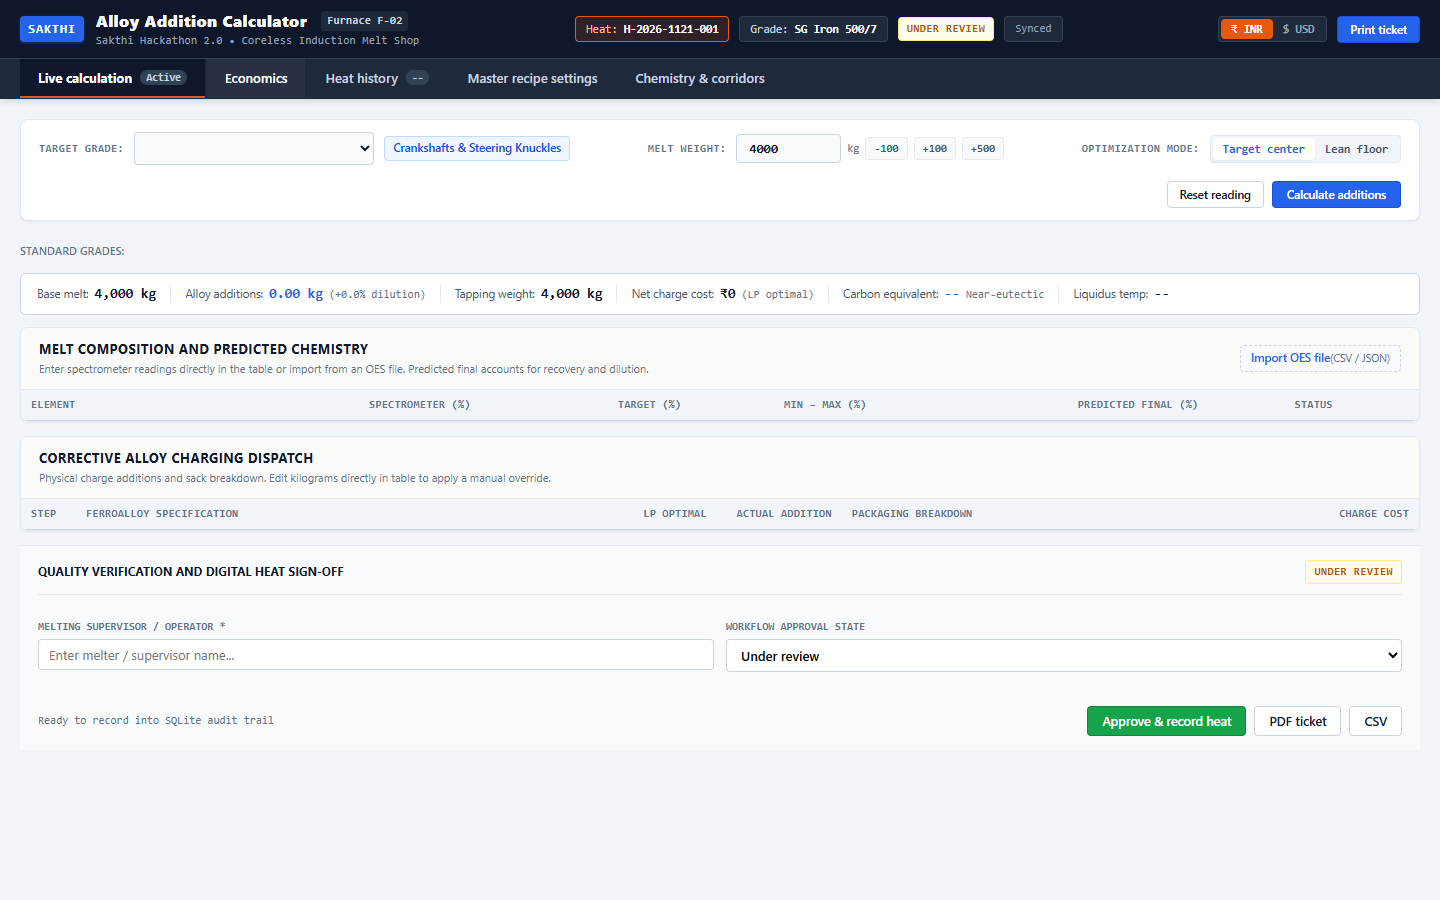
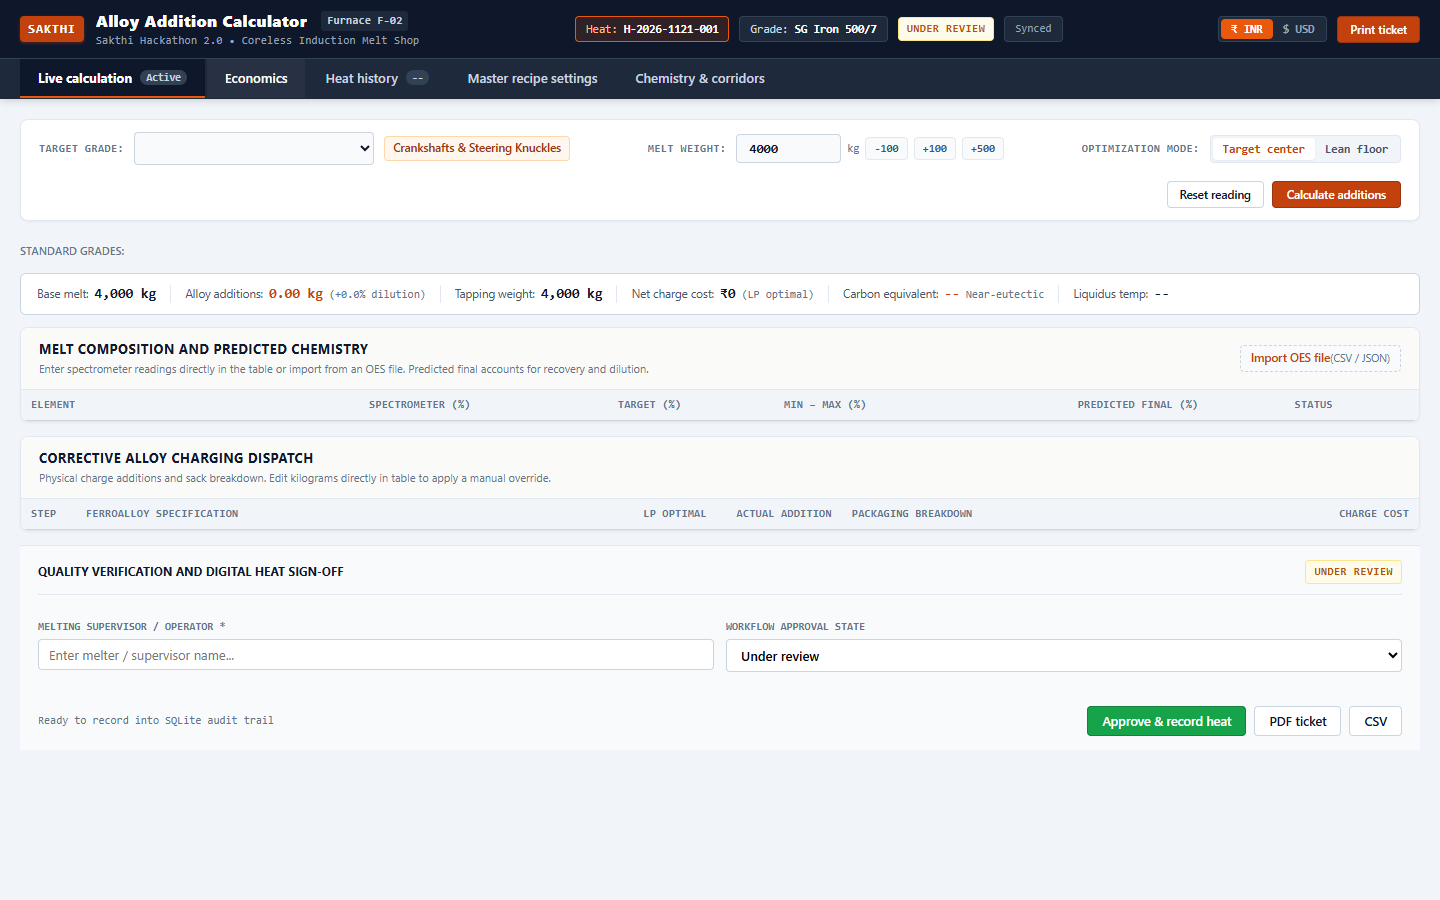
Replace blue theme with industrial foundry rust and slate palette

diff --git a/static/app.js b/static/app.js
@@ -328,7 +328,7 @@ function renderSpectroTable() {
       <td style="text-align:right;">
         <input type="number" step="${spec.step || 0.01}" value="${currentVal}" class="tabular-input" data-el="${el}">
       </td>
-      <td style="text-align:right; font-family:var(--font-mono); color:#2563eb; font-weight:600;">${spec.target.toFixed(3)}%</td>
+      <td style="text-align:right; font-family:var(--font-mono); color:var(--text-main); font-weight:600;">${spec.target.toFixed(3)}%</td>
       <td style="text-align:center; font-family:var(--font-mono); color:var(--text-muted); font-size:11px;">${minMaxStr}</td>
       <td style="text-align:right; font-family:var(--font-mono); font-weight:700; color:${isFinalInSpec ? 'var(--signal-green)' : 'var(--signal-red)'};">
         ${finalVal.toFixed(3)}%
@@ -406,8 +406,8 @@ function setupDropzone() {
     try {
       if (statusMsg) {
         statusMsg.style.display = "block";
-        statusMsg.style.background = "#eff6ff";
-        statusMsg.style.color = "#1d4ed8";
+        statusMsg.style.background = "#fff7ed";
+        statusMsg.style.color = "#9a3412";
         statusMsg.textContent = `Parsing ${file.name}...`;
       }
 
@@ -654,7 +654,7 @@ function renderChargingTable(res) {
         <input type="number" step="0.5" min="0" value="${overrideVal}" class="tabular-input ${isOverridden ? 'overridden' : ''}" data-alloy="${r.alloy_id}" style="width:85px; font-weight:700;">
       </td>
       <td style="font-family:var(--font-mono); font-size:11.5px; color:var(--text-muted);">${packagingStr}</td>
-      <td style="text-align:right; font-family:var(--font-mono); font-weight:700; color:#2563eb;">${costDisplay}</td>
+      <td style="text-align:right; font-family:var(--font-mono); font-weight:700; color:var(--text-main);">${costDisplay}</td>
     `;
     const isModified = Math.abs(overrideVal - r.quantity_kg) > 0.01;
     const cost = appState.currency === "INR" ? (r.total_cost_inr || r.total_cost * appState.fxRate) : r.total_cost;
@@ -932,7 +932,7 @@ function renderCorridorAnalysis(res) {
             <span style="color:var(--text-faint); font-size:10.5px; margin-left:6px;">[Min: ${spec.min}% | Max: ${spec.max}%]</span>
           </div>
           <div>
-            <span style="color:#0284c7;">${c0.toFixed(3)}%</span> &rarr;
+            <span style="color:#64748b;">${c0.toFixed(3)}%</span> &rarr;
             <strong style="color:${hasViolation ? '#dc2626' : '#15803d'};">${cFin.toFixed(3)}%</strong>
           </div>
         </div>

diff --git a/static/styles.css b/static/styles.css
@@ -95,7 +95,7 @@
 }
 .form-input:focus {
   outline: none;
-  border-color: #2563eb;
+  border-color: var(--primary-orange);
 }
 .validation-error {
   color: var(--signal-red);
@@ -105,7 +105,7 @@
 }
 
 :root {
-  /* Industrial Palette: Steel Slate, Precision Blue & Signal Tones */
+  /* Industrial Palette: Foundry Charcoal, Molten Rust & Signal Tones */
   --header-bg: #0f172a;
   --header-border: #1e293b;
   --header-text: #f8fafc;
@@ -120,10 +120,10 @@
   --border-medium: #cbd5e1;
   --border-dark: #94a3b8;
 
-  --primary-orange: #2563eb;
-  --primary-orange-hover: #1d4ed8;
-  --primary-orange-subtle: #eff6ff;
-  --primary-orange-border: #bfdbfe;
+  --primary-orange: #c2410c;
+  --primary-orange-hover: #9a3412;
+  --primary-orange-subtle: #fff7ed;
+  --primary-orange-border: #fed7aa;
 
   --signal-green: #15803d;
   --signal-green-bg: #f0fdf4;
@@ -137,9 +137,9 @@
   --signal-amber-bg: #fffbeb;
   --signal-amber-border: #fde68a;
 
-  --signal-blue: #2563eb;
-  --signal-blue-bg: #eff6ff;
-  --signal-blue-border: #bfdbfe;
+  --signal-accent: #c2410c;
+  --signal-accent-bg: #fff7ed;
+  --signal-accent-border: #fed7aa;
 
   --text-main: #0f172a;
   --text-muted: #475569;
@@ -234,7 +234,7 @@ body {
 }
 
 .brand-badge {
-  background: #2563eb;
+  background: var(--primary-orange);
   color: #ffffff;
   padding: 4px 8px;
   border-radius: var(--radius-xs);
@@ -242,7 +242,7 @@ body {
   font-size: 13px;
   letter-spacing: 0.8px;
   font-family: var(--font-mono);
-  box-shadow: 0 1px 3px rgba(37, 99, 235, 0.4);
+  box-shadow: 0 1px 3px rgba(194, 65, 12, 0.4);
 }
 
 .brand-text-block {
@@ -312,9 +312,9 @@ body {
 }
 
 .status-tag.calculated {
-  background: #eff6ff;
-  color: #1d4ed8;
-  border: 1px solid #bfdbfe;
+  background: #f1f5f9;
+  color: #475569;
+  border: 1px solid #cbd5e1;
 }
 .status-tag.under-review {
   background: #fffbeb;
@@ -1007,7 +1007,7 @@ body {
 }
 
 .corridor-dot.init {
-  background: #0284c7;
+  background: #64748b;
 }
 
 .corridor-dot.final {
@@ -1131,7 +1131,7 @@ body {
 }
 
 .metric-val.text-accent {
-  color: #2563eb;
+  color: var(--primary-orange);
 }
 
 .metric-sub {
@@ -1147,9 +1147,9 @@ body {
 
 .app-pill {
   font-size: 11.5px;
-  color: #1d4ed8;
-  background: #eff6ff;
-  border: 1px solid #bfdbfe;
+  color: #9a3412;
+  background: #fff7ed;
+  border: 1px solid #fed7aa;
   padding: 3px 8px;
   border-radius: 4px;
   font-weight: 600;

diff --git a/static/index.html b/static/index.html
@@ -192,7 +192,7 @@
             <div style="display:flex; align-items:center; gap:8px;">
               <div class="oes-import-strip" id="spectro-dropzone" style="margin:0; padding:4px 10px; cursor:pointer;">
                 <input type="file" id="spectro-file-input" accept=".csv,.tsv,.json,.txt">
-                <span style="font-size:11.5px; font-weight:600; color:#2563eb;">Import OES file</span>
+                <span style="font-size:11.5px; font-weight:600; color:var(--primary-orange);">Import OES file</span>
                 <span style="font-size:10.5px; color:var(--text-faint);">(CSV / JSON)</span>
               </div>
             </div>
@@ -325,9 +325,9 @@
                 </div>
               </div>
               <div style="display:flex; align-items:center; gap:12px; font-size:11px; font-family:var(--font-mono);">
-                <span><span style="display:inline-block; width:8px; height:8px; border-radius:50%; background:#0284c7; margin-right:4px;"></span>Initial</span>
+                <span><span style="display:inline-block; width:8px; height:8px; border-radius:50%; background:#64748b; margin-right:4px;"></span>Initial</span>
                 <span><span style="display:inline-block; width:8px; height:8px; border-radius:50%; background:#16a34a; margin-right:4px;"></span>Final</span>
-                <span><span style="display:inline-block; width:2px; height:10px; background:#2563eb; margin-right:4px;"></span>Target</span>
+                <span><span style="display:inline-block; width:2px; height:10px; background:var(--primary-orange); margin-right:4px;"></span>Target</span>
               </div>
             </div>
             <div class="ind-card-body" id="corridor-bars-container">
